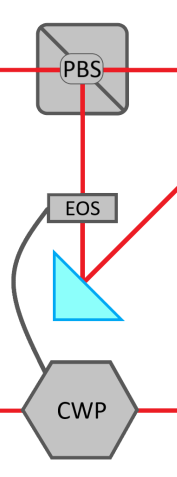
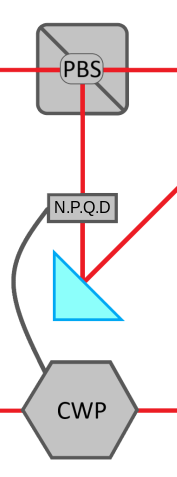
Corrections in the CNOT gate

Changed region(s): [[0.3107, 0.4109, 0.6215, 0.4696]]

diff --git a/searchindex.js b/searchindex.js
@@ -1,1 +1,1 @@
-Search.setIndex({docnames:["Sections/Closing","Sections/Components","Sections/Design","Sections/FundementalConcepts","Sections/Maths","index"],envversion:{"sphinx.domains.c":2,"sphinx.domains.changeset":1,"sphinx.domains.citation":1,"sphinx.domains.cpp":4,"sphinx.domains.index":1,"sphinx.domains.javascript":2,"sphinx.domains.math":2,"sphinx.domains.python":3,"sphinx.domains.rst":2,"sphinx.domains.std":2,sphinx:56},filenames:["Sections/Closing.rst","Sections/Components.rst","Sections/Design.rst","Sections/FundementalConcepts.rst","Sections/Maths.rst","index.rst"],objects:{},objnames:{},objtypes:{},terms:{"0":[2,3,4],"1":[2,3,4],"100":2,"18":0,"2":[2,3,4],"2003":0,"2d":4,"2x3":4,"3":[3,4],"3d":[2,4],"4":[2,4],"435j":0,"45":2,"48":3,"5":4,"50":2,"6":4,"89":2,"90":[1,2,3],"9gv4qmqwjgu":[],"\u03b1":4,"\u03b8":[1,3],"abstract":0,"break":2,"class":[2,4],"des\u00e1k":0,"do":[1,2],"import":[3,4],"new":5,"ras\u0165o":0,"switch":2,"try":[2,4],"while":[2,3],A:[0,1,2,4,5],As:[2,3],But:[2,3,5],For:[2,3,4],If:[2,4,5],In:[2,3,4,5],It:[4,5],NOT:[],No:5,One:[2,3],Or:4,That:4,The:[2,3,4,5],Then:2,There:3,To:[1,2,3,4,5],__:[],abil:2,abl:1,about:2,abov:[2,5],absolut:4,access:[2,5],accomplish:5,account:3,accuraci:2,achiev:2,across:4,activ:2,actual:2,addit:[4,5],advanc:[0,5],after:[3,4],algebra:[4,5],all:[1,2,5],allow:2,along:[2,5],alpha:4,also:[1,2,4],alter:2,altern:2,alwai:[2,4],amount:2,an:[1,2,3,4,5],analyz:5,andriano:0,angl:[1,2,3],ani:[2,3,4,5],anim:5,anoth:[2,3],anyon:5,anyth:4,appli:3,approach:2,appropri:2,ar:[1,2,3,4,5],arduino:2,area:2,argument:5,around:2,arrai:4,arrang:4,arrow:4,articl:[3,5],assist:0,assur:2,attach:5,attract:5,avail:5,averag:5,axi:[1,3],back:2,balanc:5,balla:0,bare:5,base:[2,5],basic:[3,4],beam:[2,3],becaus:[2,4],becom:1,been:3,befor:[4,5],begin:[3,4],behind:[3,4,5],below:[1,2,3],beta:4,between:[1,2,3,4],biggest:5,billion:2,bit:[1,2,4],bloch:[],block:2,blue:3,bone:5,both:[2,4],briefli:[2,3,4],bulb:3,burn:2,calcul:[4,5],call:[2,4],can:[2,3,4,5],categor:3,cc:4,cdot:4,chang:3,characterist:[2,3],chatzistaur:[],chatzistavr:0,cheap:2,cheaper:2,check:3,cinema:2,circuit:[2,5],cleverli:2,close:5,closer:5,cnot:[],coher:3,collaps:2,column:4,com:0,come:[2,3],comfort:4,commonli:2,complet:[3,4,5],complex:5,compon:[2,5],comprehens:5,comput:[0,3,4,5],concept:[0,4,5],confid:3,conjug:4,consist:[3,4],construct:2,contain:5,content:5,continu:[2,4],control:[],convers:2,cours:[0,3],creat:[2,3],crucial:4,crystal:2,current:2,custom:5,dagger:4,danger:2,data:4,decid:5,deep:5,defin:[2,3,4],degre:2,delta:4,depend:[2,3],describ:4,design:[0,3,4,5],detect:1,detector:1,devic:[0,2],differ:[2,3],differenti:1,difficult:5,diffus:3,digest:5,dimens:4,direct:[2,3,4],disentangl:[0,2],distanc:3,distribut:5,document:0,doe:[1,3],doesn:5,don:4,done:2,doubt:5,down:2,e1ymhre1tunft6zy6:5,each:2,easi:5,easier:2,edu:0,effect:[1,2],either:2,eject:1,electro:2,electron:1,els:3,emitt:[],enclos:2,end:4,energi:2,ensur:2,entangl:2,enthusiast:5,equal:2,equip:2,essenc:[2,4],evagelo:0,evaggelo:[],even:[2,3],everyon:5,everyth:4,exactli:[1,2,3],exampl:[2,3,4,5],expens:5,experi:5,explain:[3,4],explan:5,express:4,extrem:2,ey:2,eyewear:2,fall:0,familiar:[4,5],far:2,feel:[3,4,5],felix:4,few:[4,5],find:[3,5],firm:2,first:[1,2,4,5],five:5,flip:[1,2],focu:[3,4,5],follow:[0,2],form:5,found:2,frac:4,free:[3,4,5],frequenc:2,from:[2,3,4],fun:5,fund:0,fundament:[2,4],gamma:4,gate:[4,5],gener:[2,4],geometr:[3,4],get:[1,2,4,5],github:0,give:4,glanc:2,glass:2,gle:5,gnu:5,go:[3,4,5],goal:5,goe:2,graph:3,graphic:1,ground:2,ha:[2,3,5],hadamard:[],hallidai:3,handl:2,happen:2,hard:2,hardwar:5,have:[2,4,5],heart:4,help:[0,3,5],here:[3,4,5],high:2,higher:2,hilbert:4,horizont:[1,2],how:5,howev:[2,3],http:[0,5],i:4,imagin:2,implement:2,importantli:3,improv:5,incid:3,includ:[2,4],individu:[1,5],inexpens:2,inform:5,injuri:2,inner:4,instal:2,intend:2,interact:2,interest:3,introduct:3,intuit:5,invers:4,involv:2,io:0,its:[2,4],journei:0,jump:5,just:[2,5],kdp:2,know:2,knowledg:[4,5],known:[1,3],krane:3,lab:0,langl:4,laser:2,last:0,later:4,learn:4,least:2,left:4,length:4,let:[1,5],level:2,licens:5,light:[1,3],like:[0,1,3],limits_:4,linear:[4,5],list:[0,2],littl:4,ll:4,lock:5,look:5,lot:4,low:2,lower:2,made:2,magnitud:4,mai:4,main:[3,5],mainli:[2,3,4],make:[0,2,5],mani:5,manner:5,manual:2,math:[0,5],mathbb:4,mathemat:[0,4],matric:[],matrix:4,mean:[1,2,3,5],meant:[1,4,5],measur:[2,3,4],mention:[3,5],might:2,mirror:[2,3],mistak:5,mit:0,model:5,modul:2,more:[2,3,4,5],most:[1,2,3,4],motion:3,mount:2,much:2,multipl:4,must:[2,3],n:4,name:4,natur:5,ne:4,necessari:5,need:[2,3,4,5],newcom:5,non:4,nondestruct:2,nonlinear:2,normal:[1,3,4],note:[2,4],noth:[2,5],now:[2,3,4],number:4,object:4,ocw:0,offer:[4,5],one:[2,3,4],onli:[2,3,4],op:[],open:5,oper:2,optic:[1,2],order:[2,4,5],orient:[1,3],origin:2,oscil:3,other:[2,3,5],otim:4,our:[0,1,2,3,4,5],out:3,over:[4,5],own:5,page:5,pai:5,paper:5,parallel:2,parametr:2,part:2,pass:[1,2],path:2,pauli:2,pb:2,peak:3,peopl:[0,5],perform:5,perpendicular:3,person:0,phenomenon:[1,2,3],phi:4,photoelectr:1,photomultipli:[],photon:[1,5],physic:[3,4],pictur:3,piec:5,pittsburgh:2,place:2,plai:2,plate:2,pleas:3,pmatrix:4,point:4,polar:[2,4,5],pole:4,possibl:[0,2],power:2,practic:4,praveenb7:0,precaut:2,present:5,pretti:[1,3],preview:5,principl:4,probabilist:3,probabl:[2,4],problem:[0,5],process:2,produc:3,product:[],program:3,project:[0,2,5],proper:4,properti:3,protect:2,provid:5,publicli:5,pure:4,purpos:2,put:3,q4quanta:0,q:2,qcdoc:0,quantiti:4,quantum:[0,2,3,4,5],quantumcomput:0,quantumflytrap:0,quantumresourc:0,qubit:[2,3,4,5],r:4,rai:3,rang:2,rangl:4,rather:3,read:[4,5],real:4,realli:4,reason:2,recommend:[4,5],rectangular:4,red:3,redirect:3,reflect:[1,2],refresh:[4,5],regard:0,regular:3,reinvent:5,rel:[2,5],relat:[1,3,4],reli:3,reliabl:3,remot:2,repres:[2,4],represent:4,req:4,requir:[2,5],research:5,resnick:3,resourc:5,respect:2,result:4,revisit:3,right:[3,4],rotat:2,row:4,royalti:5,rx:[],s:[1,2,3,4,5],safeti:2,sai:3,said:2,sake:3,scalar:4,seat:2,section:[3,4,5],see:3,seem:2,seen:3,sensit:1,separ:4,set:[2,5],should:[4,5],show:4,shown:[1,2],sign:2,simpl:[1,5],simpler:3,simpli:[1,4],simplist:5,simul:2,sinc:[3,4],singl:[],skin:2,skip:4,so:[1,2,3,4,5],solv:0,some:[0,1,2,3,5],someth:3,soon:[],soul:4,sound:3,sourc:[3,5],space:4,spdc:2,spe:3,speak:5,special:[2,5],specifi:3,specular:3,sphere:[],split:[2,5],splitter:2,spontan:2,sqrt:4,squeez:3,stage:[],stand:2,start:1,state:[2,3,4],step:2,stream:3,string:5,strive:2,submit:5,subsect:4,substanti:2,suggest:4,suitabl:2,sum:4,superposit:2,support:[0,2,5],sure:2,surfac:3,symbol:4,system:[2,4],t:[4,5],take:[2,3,5],taken:4,tan:4,target:2,teach:4,technolog:5,templat:5,tensor:[],than:[2,5],thank:[2,5],thei:[1,3,4,5],them:2,themselv:5,therefor:5,theta:4,thi:[0,1,2,3,4,5],thing:3,think:2,those:[2,5],though:2,through:[1,2],time:[3,5],tool:4,top:4,topic:5,tradit:3,transform:2,transpos:4,transvers:3,travel:2,truth:2,tube:[],turn:2,two:[0,2,3],type:3,u:4,u_1:4,ucsb:2,under:5,understand:[0,2,3,4,5],unfortun:2,unit:4,unitari:[0,4],univers:2,unnecessari:4,up:5,upon:5,us:[0,1,2,3,4,5],user:5,uv:2,v:[],vec:4,vector:[2,3],veri:[1,4,5],versa:2,vertic:[1,2,3],vice:2,visual:4,volum:3,wai:[2,3,5],wall:5,want:5,warn:2,watch:[],water:3,wave:[2,3],waveform:3,wavelength:3,we:[0,2,3,4,5],wear:2,welcom:5,well:[3,5],were:5,what:[3,5],wheel:5,when:[2,3,4],where:[2,4],wherea:3,which:[2,3,4,5],who:5,why:[3,4],wikipedia:[1,2,3,4],without:5,word:[3,5],work:[1,2,3,5],world:5,would:[0,2],www:[],x:[2,3,4],x_:4,xanadu:3,xtellurian:0,y:4,y_:4,you:[2,3,4,5],your:[0,5],youtub:[],z:4,zero:4},titles:["Closing arguments","Component explanations","Computer design","Fundamental concepts","Maths","Introduction"],titleterms:{"\u03b8":[2,5],NOT:2,about:5,argument:0,beam:1,bloch:4,close:0,cnot:2,compon:1,comput:2,concept:3,control:2,design:2,document:5,emitt:2,explan:1,fundament:3,gate:2,gener:3,hadamard:2,introduct:5,math:4,matric:4,oper:4,organ:5,overview:5,pauli:[1,5],pb:1,photomultipli:1,photon:[2,3],polar:[1,3],product:4,quick:5,reflect:3,resourc:0,rotat:1,rx:2,singl:[2,3],spe:2,special:0,sphere:4,splitter:1,synopsi:5,tensor:4,thank:0,tube:1,vector:4,x:1}})
+Search.setIndex({docnames:["Sections/Closing","Sections/Components","Sections/Design","Sections/FundementalConcepts","Sections/Maths","index"],envversion:{"sphinx.domains.c":2,"sphinx.domains.changeset":1,"sphinx.domains.citation":1,"sphinx.domains.cpp":4,"sphinx.domains.index":1,"sphinx.domains.javascript":2,"sphinx.domains.math":2,"sphinx.domains.python":3,"sphinx.domains.rst":2,"sphinx.domains.std":2,sphinx:56},filenames:["Sections/Closing.rst","Sections/Components.rst","Sections/Design.rst","Sections/FundementalConcepts.rst","Sections/Maths.rst","index.rst"],objects:{},objnames:{},objtypes:{},terms:{"0":[2,3,4],"1":[2,3,4],"100":2,"18":0,"2":[2,3,4],"2003":0,"2d":4,"2x3":4,"3":[3,4],"3d":[2,4],"4":[2,4],"435j":0,"45":2,"48":3,"5":4,"50":2,"6":4,"89":2,"90":[1,2,3],"9gv4qmqwjgu":[],"\u03b1":4,"\u03b8":[1,3],"abstract":0,"break":2,"class":[2,4],"des\u00e1k":0,"do":[1,2],"import":[3,4],"new":5,"ras\u0165o":0,"switch":2,"try":[2,4],"while":[2,3],A:[0,1,2,4,5],As:[2,3],But:[2,3,5],For:[2,3,4],If:[2,4,5],In:[2,3,4,5],It:[4,5],NOT:[],No:5,One:[2,3],Or:4,That:[2,4],The:[2,3,4,5],Then:2,There:3,To:[1,2,3,4,5],__:[],abil:2,abl:1,about:2,abov:[2,5],absolut:4,access:[2,5],accomplish:5,account:3,accuraci:2,achiev:2,across:4,activ:2,actual:2,addit:[4,5],advanc:[0,5],after:[3,4],algebra:[4,5],all:[1,2,5],allow:2,along:[2,5],alpha:4,also:[1,2,4],alter:2,altern:2,alwai:[2,4],amount:2,an:[1,2,3,4,5],analyz:5,andriano:0,angl:[1,2,3],ani:[2,3,4,5],anim:5,anoth:[2,3],anyon:5,anyth:4,appli:3,approach:2,appropri:2,ar:[1,2,3,4,5],arduino:2,area:2,argument:5,around:2,arrai:4,arrang:4,arrow:4,articl:[3,5],assist:0,assur:2,attach:5,attract:5,avail:5,averag:5,axi:[1,3],back:[],balanc:5,balla:0,bare:5,base:[2,5],basic:[3,4],beam:[2,3],becaus:[2,4],becom:1,been:3,befor:[4,5],begin:[3,4],behind:[3,4,5],below:[1,2,3],beta:4,between:[1,2,3,4],biggest:5,billion:2,bit:[1,2,4],bloch:[],block:2,blue:3,bone:5,both:[2,4],briefli:[2,3,4],bulb:3,burn:2,calcul:[4,5],call:[2,4],can:[2,3,4,5],cannot:2,categor:3,cc:4,cdot:4,chang:3,characterist:[2,3],chatzistaur:[],chatzistavr:0,cheap:2,cheaper:2,check:3,cinema:2,circuit:[2,5],cleverli:2,close:5,closer:5,cnot:[],coher:3,collaps:2,column:4,com:0,come:[2,3],comfort:4,commonli:2,complet:[3,4,5],complex:5,compon:[2,5],comprehens:5,comput:[0,3,4,5],concept:[0,4,5],confid:3,conjug:4,consist:[3,4],construct:2,contain:5,content:5,continu:[2,4],control:[],convers:2,cours:[0,3],creat:[2,3],crucial:4,crystal:2,current:2,custom:5,dagger:4,danger:2,data:4,decid:5,deep:5,defin:[2,3,4],degre:2,delta:4,depend:[2,3],describ:4,design:[0,3,4,5],destruct:2,detect:1,detector:[1,2],devic:[0,2],differ:[2,3],differenti:1,difficult:5,diffus:3,digest:5,dimens:4,direct:[2,3,4],disentangl:[0,2],distanc:3,distribut:5,document:0,doe:[1,3],doesn:5,don:4,done:2,doubt:5,down:2,e1ymhre1tunft6zy6:5,each:2,easi:5,easier:2,edu:0,effect:[1,2],either:2,eject:1,electro:[],electron:1,els:3,emitt:[],enclos:2,end:4,energi:2,ensur:2,entangl:2,enthusiast:5,equal:2,equip:2,essenc:[2,4],evagelo:0,evaggelo:[],even:[2,3],everyon:5,everyth:4,exactli:[1,2,3],exampl:[2,3,4,5],exist:2,expens:5,experi:5,explain:[3,4],explan:5,express:4,extrem:2,ey:2,eyewear:2,fall:0,familiar:[4,5],far:2,feel:[3,4,5],felix:4,few:[4,5],find:[3,5],firm:2,first:[1,2,4,5],five:5,flip:[1,2],focu:[3,4,5],follow:[0,2],form:5,found:2,frac:4,free:[3,4,5],frequenc:2,from:[2,3,4],fun:5,fund:0,fundament:[2,4],gamma:4,gate:[4,5],gener:[2,4],geometr:[3,4],get:[1,2,4,5],github:0,give:4,glanc:2,glass:2,gle:5,gnu:5,go:[3,4,5],goal:5,goe:2,graph:3,graphic:1,ground:2,ha:[2,3,5],hadamard:[],hallidai:3,handl:2,happen:2,hard:2,hardwar:5,have:[2,4,5],heart:4,help:[0,3,5],here:[3,4,5],high:2,higher:2,hilbert:4,horizont:[1,2],how:[2,5],howev:[2,3],http:[0,5],i:4,imagin:2,implement:2,importantli:3,improv:5,incid:3,includ:[2,4],individu:[1,5],inexpens:2,inform:5,injuri:2,inner:4,instal:2,intend:2,interact:2,interest:3,introduct:3,intuit:5,invers:4,involv:2,io:0,its:[2,4],journei:0,jump:5,just:[2,5],kdp:2,know:2,knowledg:[4,5],known:[1,3],krane:3,lab:0,langl:4,laser:2,last:0,later:4,learn:4,least:2,left:4,length:4,let:[1,2,5],level:2,licens:5,light:[1,3],like:[0,1,2,3],limits_:4,linear:[4,5],list:[0,2],littl:4,ll:4,lock:5,look:5,lot:4,low:2,lower:2,made:2,magnitud:4,mai:4,main:[3,5],mainli:[2,3,4],make:[0,2,5],mani:5,manner:5,manual:2,math:[0,5],mathbb:4,mathemat:[0,4],matric:[],matrix:4,mean:[1,2,3,5],meant:[1,4,5],measur:[2,3,4],mention:[3,5],might:2,mirror:[2,3],mistak:5,mit:0,model:5,modul:2,more:[2,3,4,5],most:[1,2,3,4],motion:3,mount:2,much:2,multipl:4,must:[2,3],n:4,name:4,natur:5,ne:4,necessari:5,need:[2,3,4,5],newcom:5,non:4,nondestruct:2,nonlinear:2,normal:[1,3,4],note:[2,4],noth:[2,5],now:[2,3,4],npqd:2,number:4,object:4,ocw:0,offer:[4,5],one:[2,3,4],onli:[2,3,4],op:[],open:5,oper:2,optic:1,order:[2,4,5],orient:[1,3],origin:[],oscil:3,other:[2,3,5],otim:4,our:[0,1,2,3,4,5],out:3,over:[4,5],own:5,page:5,pai:5,paper:5,parallel:2,parametr:2,part:2,pass:[1,2],path:2,pauli:2,pb:2,peak:3,peopl:[0,5],perform:5,perpendicular:3,person:0,phenomenon:[1,2,3],phi:4,photoelectr:1,photomultipli:[],photon:[1,5],physic:[3,4],pictur:3,piec:5,pittsburgh:2,place:2,plai:2,plate:2,pleas:3,pmatrix:4,pmt:2,point:4,polar:[2,4,5],pole:4,possibl:[0,2],power:2,practic:4,praveenb7:0,precaut:2,present:5,pretti:[1,3],preview:5,principl:4,probabilist:3,probabl:[2,4],problem:[0,5],process:2,produc:3,product:[],program:3,project:[0,2,5],proper:4,properti:3,protect:2,provid:5,publicli:5,pure:4,purpos:2,put:3,q4quanta:0,q:[],qcdoc:0,quantiti:4,quantum:[0,2,3,4,5],quantumcomput:0,quantumflytrap:0,quantumresourc:0,qubit:[2,3,4,5],r:4,rai:3,rang:2,rangl:4,rather:3,read:[4,5],real:4,realli:4,reason:2,recommend:[4,5],rectangular:4,red:3,redirect:3,reflect:[1,2],refresh:[4,5],regard:0,regular:3,reinvent:5,rel:[2,5],relat:[1,3,4],reli:3,reliabl:3,remot:2,repres:[2,4],represent:4,req:4,requir:[2,5],research:5,resnick:3,resourc:5,respect:2,result:4,revis:2,revisit:3,right:[3,4],rotat:2,row:4,royalti:5,rx:[],s:[1,2,3,4,5],safeti:2,sai:3,said:2,sake:3,scalar:4,seat:2,section:[3,4,5],see:3,seem:2,seen:3,sensit:1,separ:4,set:[2,5],should:[4,5],show:4,shown:[1,2],sign:2,simpl:[1,5],simpler:3,simpli:[1,4],simplist:5,simul:2,sinc:[3,4],singl:[],skin:2,skip:4,so:[1,2,3,4,5],solv:0,some:[0,1,2,3,5],someth:3,soon:[],soul:4,sound:3,sourc:[3,5],space:4,spdc:2,spe:3,speak:5,special:[2,5],specifi:3,specular:3,sphere:[],split:[2,5],splitter:2,spontan:2,sqrt:4,squeez:3,stage:[],stand:2,start:1,state:[2,3,4],step:2,stream:3,string:5,strive:2,submit:5,subsect:4,substanti:2,suggest:4,suitabl:2,sum:4,superposit:2,support:[0,2,5],sure:2,surfac:3,symbol:4,system:[2,4],t:[4,5],take:[2,3,5],taken:4,tan:4,target:2,teach:4,technolog:5,templat:5,tensor:[],than:[2,5],thank:[2,5],thei:[1,3,4,5],them:2,themselv:5,therefor:5,theta:4,thi:[0,1,2,3,4,5],thing:3,think:2,those:[2,5],though:2,through:[1,2],time:[3,5],tool:4,top:4,topic:5,tradit:3,transform:2,transpos:4,transvers:3,travel:2,truth:2,tube:[],turn:2,two:[0,2,3],type:3,u:4,u_1:4,ucsb:2,under:5,understand:[0,2,3,4,5],unfortun:2,unit:4,unitari:[0,4],univers:2,unnecessari:4,up:5,upon:5,us:[0,1,2,3,4,5],user:5,uv:2,v:[],vec:4,vector:[2,3],veri:[1,4,5],versa:2,vertic:[1,2,3],vice:2,visual:4,volum:3,wai:[2,3,5],wall:5,want:5,warn:2,watch:[],water:3,wave:[2,3],waveform:3,wavelength:3,wavepl:2,we:[0,2,3,4,5],wear:2,welcom:5,well:[3,5],were:5,what:[3,5],wheel:5,when:[2,3,4],where:[2,4],wherea:3,which:[2,3,4,5],who:5,why:[3,4],wikipedia:[1,2,3,4],without:5,word:[3,5],work:[1,2,3,5],world:5,would:[0,2],www:[],x:[2,3,4],x_:4,xanadu:3,xtellurian:0,y:4,y_:4,yet:2,you:[2,3,4,5],your:[0,5],youtub:[],z:4,zero:4},titles:["Closing arguments","Component explanations","Computer design","Fundamental concepts","Maths","Introduction"],titleterms:{"\u03b8":[2,5],NOT:2,about:5,argument:0,beam:1,bloch:4,close:0,cnot:2,compon:1,comput:2,concept:3,control:2,design:2,document:5,emitt:2,explan:1,fundament:3,gate:2,gener:3,hadamard:2,introduct:5,math:4,matric:4,oper:4,organ:5,overview:5,pauli:[1,5],pb:1,photomultipli:1,photon:[2,3],polar:[1,3],product:4,quick:5,reflect:3,resourc:0,rotat:1,rx:2,singl:[2,3],spe:2,special:0,sphere:4,splitter:1,synopsi:5,tensor:4,thank:0,tube:1,vector:4,x:1}})

diff --git a/Sections/Design.html b/Sections/Design.html
@@ -134,9 +134,10 @@ it lowers the computer’s accuracy by a substantial amount.</p>
 <p>The CNOT is a two qubit gate and it allows qubits to interact with each other.
 This gate involves 2 qubits, a control qubit and a target one. If the control is in |1⟩ state
 Then the target qubit gets flipped, but if the control is in |0⟩ then nothing happens and both qubits continue.
-To implement such a gate in our system we use 2 PBS one <a class="reference external" href="https://www.rp-photonics.com/q_switches.html">Electro-optic Q Switch</a> and one Controlled wave plate. All you need to know about the controlled wave plate is that it works exactly as an X gate (bit flip) but only when current is passing though it.
-The control qubit goes through a PBS where it splits down 2 different paths, if its in |0⟩ state, then it just continues to be measured. However if it’s in the |1⟩ state then it gets reflected by the first PBS gets nondestructively measured
-and goes back in its original path. When it is measured current is passes through the controlled wave plate activating it.</p>
+To implement such a gate in our system we need to use a nondestructive photonic qubit detector <a class="reference external" href="https://www.nature.com/articles/s41586-021-03290-z">(NPQD)</a> and a Controlled Waveplate.
+Unfortunately as far as we know NPQD’s do not exist yet so we cannot yet design a nondestructive CNOT gate. That said we can make a destructive CNOT using photon detectors like PMTs.
+All you need to know about the controlled wave plate is that it works exactly as an X gate (bit flip) but only when current is passing though it.
+Now, let’s revise how this gate works exactly. The control qubit goes through a PBS where it splits down 2 different paths, if its in |0⟩ state, then it just continues to be measured. However if it’s in the |1⟩ state then it gets reflected by the first PBS it gets measured. When the control qubit is measured in the |1⟩ state, current is passes through the controlled wave plate activating it and flipping the the target qubit in the process.</p>
 <figure class="align-center">
 <a class="reference internal image-reference" href="../_images/CNOT.png"><img alt="" src="../_images/CNOT.png" style="width: 177.0px; height: 477.0px;" /></a>
 </figure>

diff --git a/License.md b/License.md
@@ -1,0 +1,286 @@
+### GNU GENERAL PUBLIC LICENSE
+### Version 2, June 1991
+
+ Copyright (C) 1989, 1991 Free Software Foundation, Inc.,
+ 51 Franklin Street, Fifth Floor, Boston, MA 02110-1301 USA
+ Everyone is permitted to copy and distribute verbatim copies
+ of this license document, but changing it is not allowed.
+
+### Preamble
+
+  The licenses for most software are designed to take away your
+freedom to share and change it.  By contrast, the GNU General Public
+License is intended to guarantee your freedom to share and change free
+software--to make sure the software is free for all its users.  This
+General Public License applies to most of the Free Software
+Foundation's software and to any other program whose authors commit to
+using it.  (Some other Free Software Foundation software is covered by
+the GNU Lesser General Public License instead.)  You can apply it to
+your programs, too.
+
+  When we speak of free software, we are referring to freedom, not
+price.  Our General Public Licenses are designed to make sure that you
+have the freedom to distribute copies of free software (and charge for
+this service if you wish), that you receive source code or can get it
+if you want it, that you can change the software or use pieces of it
+in new free programs; and that you know you can do these things.
+
+  To protect your rights, we need to make restrictions that forbid
+anyone to deny you these rights or to ask you to surrender the rights.
+These restrictions translate to certain responsibilities for you if you
+distribute copies of the software, or if you modify it.
+
+  For example, if you distribute copies of such a program, whether
+gratis or for a fee, you must give the recipients all the rights that
+you have.  You must make sure that they, too, receive or can get the
+source code.  And you must show them these terms so they know their
+rights.
+
+  We protect your rights with two steps: (1) copyright the software, and
+(2) offer you this license which gives you legal permission to copy,
+distribute and/or modify the software.
+
+  Also, for each author's protection and ours, we want to make certain
+that everyone understands that there is no warranty for this free
+software.  If the software is modified by someone else and passed on, we
+want its recipients to know that what they have is not the original, so
+that any problems introduced by others will not reflect on the original
+authors' reputations.
+
+  Finally, any free program is threatened constantly by software
+patents.  We wish to avoid the danger that redistributors of a free
+program will individually obtain patent licenses, in effect making the
+program proprietary.  To prevent this, we have made it clear that any
+patent must be licensed for everyone's free use or not licensed at all.
+
+  The precise terms and conditions for copying, distribution and
+modification follow.
+
+### GNU GENERAL PUBLIC LICENSE
+   TERMS AND CONDITIONS FOR COPYING, DISTRIBUTION AND MODIFICATION
+
+  0. This License applies to any program or other work which contains
+a notice placed by the copyright holder saying it may be distributed
+under the terms of this General Public License.  The "Program", below,
+refers to any such program or work, and a "work based on the Program"
+means either the Program or any derivative work under copyright law:
+that is to say, a work containing the Program or a portion of it,
+either verbatim or with modifications and/or translated into another
+language.  (Hereinafter, translation is included without limitation in
+the term "modification".)  Each licensee is addressed as "you".
+
+Activities other than copying, distribution and modification are not
+covered by this License; they are outside its scope.  The act of
+running the Program is not restricted, and the output from the Program
+is covered only if its contents constitute a work based on the
+Program (independent of having been made by running the Program).
+Whether that is true depends on what the Program does.
+
+  1. You may copy and distribute verbatim copies of the Program's
+source code as you receive it, in any medium, provided that you
+conspicuously and appropriately publish on each copy an appropriate
+copyright notice and disclaimer of warranty; keep intact all the
+notices that refer to this License and to the absence of any warranty;
+and give any other recipients of the Program a copy of this License
+along with the Program.
+
+You may charge a fee for the physical act of transferring a copy, and
+you may at your option offer warranty protection in exchange for a fee.
+
+  2. You may modify your copy or copies of the Program or any portion
+of it, thus forming a work based on the Program, and copy and
+distribute such modifications or work under the terms of Section 1
+above, provided that you also meet all of these conditions:
+
+    a) You must cause the modified files to carry prominent notices
+    stating that you changed the files and the date of any change.
+
+    b) You must cause any work that you distribute or publish, that in
+    whole or in part contains or is derived from the Program or any
+    part thereof, to be licensed as a whole at no charge to all third
+    parties under the terms of this License.
+
+    c) If the modified program normally reads commands interactively
+    when run, you must cause it, when started running for such
+    interactive use in the most ordinary way, to print or display an
+    announcement including an appropriate copyright notice and a
+    notice that there is no warranty (or else, saying that you provide
+    a warranty) and that users may redistribute the program under
+    these conditions, and telling the user how to view a copy of this
+    License.  (Exception: if the Program itself is interactive but
+    does not normally print such an announcement, your work based on
+    the Program is not required to print an announcement.)
+
+These requirements apply to the modified work as a whole.  If
+identifiable sections of that work are not derived from the Program,
+and can be reasonably considered independent and separate works in
+themselves, then this License, and its terms, do not apply to those
+sections when you distribute them as separate works.  But when you
+distribute the same sections as part of a whole which is a work based
+on the Program, the distribution of the whole must be on the terms of
+this License, whose permissions for other licensees extend to the
+entire whole, and thus to each and every part regardless of who wrote it.
+
+Thus, it is not the intent of this section to claim rights or contest
+your rights to work written entirely by you; rather, the intent is to
+exercise the right to control the distribution of derivative or
+collective works based on the Program.
+
+In addition, mere aggregation of another work not based on the Program
+with the Program (or with a work based on the Program) on a volume of
+a storage or distribution medium does not bring the other work under
+the scope of this License.
+
+  3. You may copy and distribute the Program (or a work based on it,
+under Section 2) in object code or executable form under the terms of
+Sections 1 and 2 above provided that you also do one of the following:
+
+    a) Accompany it with the complete corresponding machine-readable
+    source code, which must be distributed under the terms of Sections
+    1 and 2 above on a medium customarily used for software interchange; or,
+
+    b) Accompany it with a written offer, valid for at least three
+    years, to give any third party, for a charge no more than your
+    cost of physically performing source distribution, a complete
+    machine-readable copy of the corresponding source code, to be
+    distributed under the terms of Sections 1 and 2 above on a medium
+    customarily used for software interchange; or,
+
+    c) Accompany it with the information you received as to the offer
+    to distribute corresponding source code.  (This alternative is
+    allowed only for noncommercial distribution and only if you
+    received the program in object code or executable form with such
+    an offer, in accord with Subsection b above.)
+
+The source code for a work means the preferred form of the work for
+making modifications to it.  For an executable work, complete source
+code means all the source code for all modules it contains, plus any
+associated interface definition files, plus the scripts used to
+control compilation and installation of the executable.  However, as a
+special exception, the source code distributed need not include
+anything that is normally distributed (in either source or binary
+form) with the major components (compiler, kernel, and so on) of the
+operating system on which the executable runs, unless that component
+itself accompanies the executable.
+
+If distribution of executable or object code is made by offering
+access to copy from a designated place, then offering equivalent
+access to copy the source code from the same place counts as
+distribution of the source code, even though third parties are not
+compelled to copy the source along with the object code.
+
+  4. You may not copy, modify, sublicense, or distribute the Program
+except as expressly provided under this License.  Any attempt
+otherwise to copy, modify, sublicense or distribute the Program is
+void, and will automatically terminate your rights under this License.
+However, parties who have received copies, or rights, from you under
+this License will not have their licenses terminated so long as such
+parties remain in full compliance.
+
+  5. You are not required to accept this License, since you have not
+signed it.  However, nothing else grants you permission to modify or
+distribute the Program or its derivative works.  These actions are
+prohibited by law if you do not accept this License.  Therefore, by
+modifying or distributing the Program (or any work based on the
+Program), you indicate your acceptance of this License to do so, and
+all its terms and conditions for copying, distributing or modifying
+the Program or works based on it.
+
+  6. Each time you redistribute the Program (or any work based on the
+Program), the recipient automatically receives a license from the
+original licensor to copy, distribute or modify the Program subject to
+these terms and conditions.  You may not impose any further
+restrictions on the recipients' exercise of the rights granted herein.
+You are not responsible for enforcing compliance by third parties to
+this License.
+
+  7. If, as a consequence of a court judgment or allegation of patent
+infringement or for any other reason (not limited to patent issues),
+conditions are imposed on you (whether by court order, agreement or
+otherwise) that contradict the conditions of this License, they do not
+excuse you from the conditions of this License.  If you cannot
+distribute so as to satisfy simultaneously your obligations under this
+License and any other pertinent obligations, then as a consequence you
+may not distribute the Program at all.  For example, if a patent
+license would not permit royalty-free redistribution of the Program by
+all those who receive copies directly or indirectly through you, then
+the only way you could satisfy both it and this License would be to
+refrain entirely from distribution of the Program.
+
+If any portion of this section is held invalid or unenforceable under
+any particular circumstance, the balance of the section is intended to
+apply and the section as a whole is intended to apply in other
+circumstances.
+
+It is not the purpose of this section to induce you to infringe any
+patents or other property right claims or to contest validity of any
+such claims; this section has the sole purpose of protecting the
+integrity of the free software distribution system, which is
+implemented by public license practices.  Many people have made
+generous contributions to the wide range of software distributed
+through that system in reliance on consistent application of that
+system; it is up to the author/donor to decide if he or she is willing
+to distribute software through any other system and a licensee cannot
+impose that choice.
+
+This section is intended to make thoroughly clear what is believed to
+be a consequence of the rest of this License.
+
+  8. If the distribution and/or use of the Program is restricted in
+certain countries either by patents or by copyrighted interfaces, the
+original copyright holder who places the Program under this License
+may add an explicit geographical distribution limitation excluding
+those countries, so that distribution is permitted only in or among
+countries not thus excluded.  In such case, this License incorporates
+the limitation as if written in the body of this License.
+
+  9. The Free Software Foundation may publish revised and/or new versions
+of the General Public License from time to time.  Such new versions will
+be similar in spirit to the present version, but may differ in detail to
+address new problems or concerns.
+
+Each version is given a distinguishing version number.  If the Program
+specifies a version number of this License which applies to it and "any
+later version", you have the option of following the terms and conditions
+either of that version or of any later version published by the Free
+Software Foundation.  If the Program does not specify a version number of
+this License, you may choose any version ever published by the Free Software
+Foundation.
+
+  10. If you wish to incorporate parts of the Program into other free
+programs whose distribution conditions are different, write to the author
+to ask for permission.  For software which is copyrighted by the Free
+Software Foundation, write to the Free Software Foundation; we sometimes
+make exceptions for this.  Our decision will be guided by the two goals
+of preserving the free status of all derivatives of our free software and
+of promoting the sharing and reuse of software generally.
+
+### NO WARRANTY
+
+  11. BECAUSE THE PROGRAM IS LICENSED FREE OF CHARGE, THERE IS NO WARRANTY
+FOR THE PROGRAM, TO THE EXTENT PERMITTED BY APPLICABLE LAW.  EXCEPT WHEN
+OTHERWISE STATED IN WRITING THE COPYRIGHT HOLDERS AND/OR OTHER PARTIES
+PROVIDE THE PROGRAM "AS IS" WITHOUT WARRANTY OF ANY KIND, EITHER EXPRESSED
+OR IMPLIED, INCLUDING, BUT NOT LIMITED TO, THE IMPLIED WARRANTIES OF
+MERCHANTABILITY AND FITNESS FOR A PARTICULAR PURPOSE.  THE ENTIRE RISK AS
+TO THE QUALITY AND PERFORMANCE OF THE PROGRAM IS WITH YOU.  SHOULD THE
+PROGRAM PROVE DEFECTIVE, YOU ASSUME THE COST OF ALL NECESSARY SERVICING,
+REPAIR OR CORRECTION.
+
+  12. IN NO EVENT UNLESS REQUIRED BY APPLICABLE LAW OR AGREED TO IN WRITING
+WILL ANY COPYRIGHT HOLDER, OR ANY OTHER PARTY WHO MAY MODIFY AND/OR
+REDISTRIBUTE THE PROGRAM AS PERMITTED ABOVE, BE LIABLE TO YOU FOR DAMAGES,
+INCLUDING ANY GENERAL, SPECIAL, INCIDENTAL OR CONSEQUENTIAL DAMAGES ARISING
+OUT OF THE USE OR INABILITY TO USE THE PROGRAM (INCLUDING BUT NOT LIMITED
+TO LOSS OF DATA OR DATA BEING RENDERED INACCURATE OR LOSSES SUSTAINED BY
+YOU OR THIRD PARTIES OR A FAILURE OF THE PROGRAM TO OPERATE WITH ANY OTHER
+PROGRAMS), EVEN IF SUCH HOLDER OR OTHER PARTY HAS BEEN ADVISED OF THE
+POSSIBILITY OF SUCH DAMAGES.
+
+### END OF TERMS AND CONDITIONS
+
+This General Public License does not permit incorporating your program into
+proprietary programs.  If your program is a subroutine library, you may
+consider it more useful to permit linking proprietary applications with the
+library.  If this is what you want to do, use the GNU Lesser General
+Public License instead of this License.
